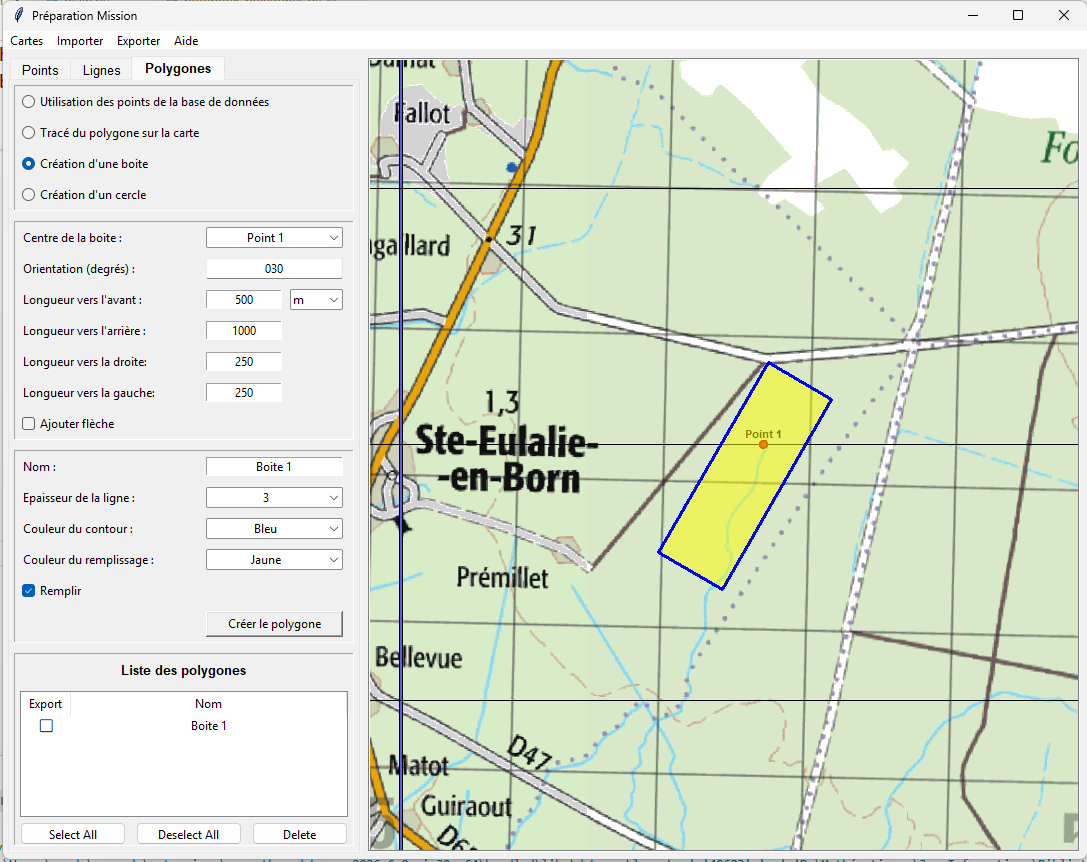
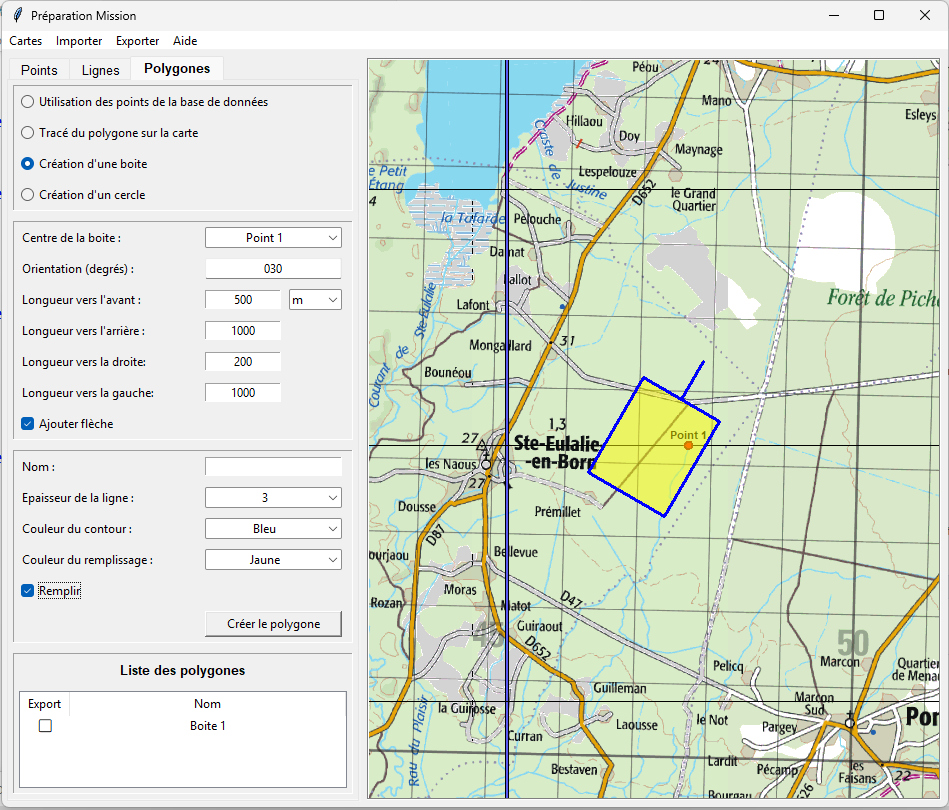
Mise a jour

diff --git a/aide.html b/aide.html
@@ -386,9 +386,11 @@
       </div>
 
       <p>Le champ <strong>Longueur totale</strong> affiche la longueur totale de la ligne en mètres ou nautiques.</p>
-      <p>Le champ <strong>Longueur du dernier segment</strong> affiche la longueur du dernier segment ajouté en mètres ou
+      <p>Le champ <strong>Longueur du dernier segment</strong> affiche la longueur du dernier segment ajouté en mètres
+        ou
         nautiques.</p>
-      <p>Le champ <strong>Gisement du dernier segment</strong> affiche le gisement du dernier segment ajouté en degrés.</p>
+      <p>Le champ <strong>Gisement du dernier segment</strong> affiche le gisement du dernier segment ajouté en degrés.
+      </p>
 
       <h3>2.3 Liste des lignes</h3>
 
@@ -448,46 +450,63 @@
       <p>Le dernier point peut se positionner par rapport au point précédent en s'aidant des champs :</p>
 
       <ul>
-        <li><strong>Longueur du dernier segment</strong> : longueur du dernier segment ajouté en mètres ou nautiques.</li>
+        <li><strong>Longueur du dernier segment</strong> : longueur du dernier segment ajouté en mètres ou nautiques.
+        </li>
         <li><strong>Gisement du dernier segment</strong> : gisement du dernier segment ajouté en degrés.</li>
-      </ul>      
+      </ul>
 
       <div class="image-gallery1">
         <img src="Images\Onglet_Polygones_2.jpg" alt="Onglet Polygones">
       </div>
 
 
-      <h3>3.3  Création d'un polygone : "Création d'une boite"</h3>
-      
+      <h3>3.3 Création d'un polygone : "Création d'une boite"</h3>
+
       <ul>
         <li><strong>Centre de la boite </strong> :Choisir dans la liste des points l'origine de la boite.</li>²
         <li><strong>Orientation </strong> :Choisir l'orientation de la boite en degrés.</li>
-        <li><strong>Longueur vers l'avant </strong> :Extension de la boite dans le sens de l'orientation en mètres ou nautiques.</li>
+        <li><strong>Longueur vers l'avant </strong> :Extension de la boite dans le sens de l'orientation en mètres ou
+          nautiques.</li>
         <li><strong>Longueur vers l'arrière </strong> :Extension de la boite dans le sens opposé à l'orientation.</li>
-        <li><strong>Longueur vers la gauche </strong> :Extension de la boite à gauche perpendiculairement à l'orientation.</li>
-        <li><strong>Longueur vers la droite </strong> :Extension de la boite à droite perpendiculairement à l'orientation.</li>
+        <li><strong>Longueur vers la gauche </strong> :Extension de la boite à gauche perpendiculairement à
+          l'orientation.</li>
+        <li><strong>Longueur vers la droite </strong> :Extension de la boite à droite perpendiculairement à
+          l'orientation.</li>
       </ul>
 
-      <p>La case à cocher <strong>Ajouter une flèche </strong> permet d'ajouter une flèche indiquant graphiquement la direction de la boite (Stationnaires).</p>
+      <p>La case à cocher <strong>Ajouter une flèche </strong> permet d'ajouter une flèche indiquant graphiquement la
+        direction de la boite (Stationnaires).</p>
 
       <div class="image-gallery1">
         <img src="Images\Onglet_Polygones_3.jpg" alt="Onglet Polygones">
       </div>
 
       <h3>3.4 Création d'un cercle</h3>
+
+      <p>Permet de créer un cercle ou un arc de cercle :</p>
+
       <ul>
         <li>Choisir dans la liste des points le centre du cercle.</li>
         <li>Sélectionner un rayon en mètres ou nautiques.</li>
-        <li>Sélectionner le nombre de segments pour tracer le cercle.</li>
-        <li>La case à cocher <strong>Arc de cercle</strong> permet de créer un arc de cercle au lieu d'un cercle
-          complet.</li>
-        <li>Choisir l'angle de départ.</li>
-        <li>Choisir l'angle d'arrivée.</li>
-        <li>La case à cocher <strong>Relier au centre</strong> permet de tracer l'arc de cercle en reliant les
-          extrémités au centre.</li>
+        <li>Sélectionner le nombre de segments pour tracer le polygone.</li>
       </ul>
 
+      <div class="image-gallery1">
+        <img src="Images\Onglet_Polygones_4.jpg" alt="Onglet Polygones">
+      </div>
 
+      <p>La case à cocher <strong>Arc de cercle</strong> ouvre la boite de saisies pour generer un arc de cercle :</p>
+      <ul>
+        <li><strong>Angle de départ </strong> :Entrer l'angle de départ entre 0 et 360°.</li>
+        <li><strong>Angle d'arrivée </strong> :Entrer l'angle d'arrivée entre 0 et 360°.</li>
+        <li>L'arc part de l'angle de départ et rejoint l'angle d'arrivée dans le sens horaire.</li>
+        <li>La case à cocher <strong>Relier au centre</strong> permet de relier l'arc au centre (Arc jaune).</li>
+        <li> Si la case n'est pas cochée, une branche relie les deux extrémités de l'arc (Arc vert)</li>
+      </ul>
+      
+      <div class="image-gallery1">
+        <img src="Images\Onglet_Polygones_5.jpg" alt="Onglet Polygones">
+      </div>
 
       <h3>Gestion des polygones</h3>
       <ul>

diff --git a/database.py b/database.py
@@ -5,6 +5,87 @@ import tkinter as tk
 import utility
 
 
+def _has_coordinate_value(value):
+    """Vérifie qu'une coordonnée n'est ni vide ni absente, y compris si elle vaut 0."""
+    if value is None:
+        return False
+    if isinstance(value, str):
+        return value.strip() != ""
+    return True
+
+
+def _calculate_hippodrome_points(center_lat, center_lon, length_forward, length_backward, length_right, length_left, orientation):
+    """Calculer les points d'un hippodrome à partir des dimensions du rectangle."""
+    if length_right <= 0 and length_left <= 0:
+        return []
+
+    radius_km = (length_right + length_left) / 2.0
+    if radius_km <= 0:
+        return []
+
+    center_point = {"lat": center_lat, "lon": center_lon}
+    transverse_offset_km = (length_right - length_left) / 2.0
+
+    def offset_point(point_data, distance_km, bearing_deg):
+        if distance_km == 0:
+            return point_data["lat"], point_data["lon"]
+        return utility.create_point_from_bearing_distance(
+            point_data,
+            abs(distance_km),
+            bearing_deg if distance_km <= 0 else (bearing_deg + 180) % 360,
+        )
+    
+    def build_arc_points(center_point_data, start_bearing, end_bearing, clockwise, num_points=20):
+        points = []
+        if clockwise:
+            span = (start_bearing - end_bearing) % 360
+            for index in range(num_points):
+                bearing = (start_bearing - (span / (num_points - 1)) * index) % 360
+                lat, lon = utility.create_point_from_bearing_distance(center_point_data, radius_km, bearing)
+                points.append((lon, lat))
+        else:
+            span = (end_bearing - start_bearing) % 360
+            for index in range(num_points):
+                bearing = (start_bearing + (span / (num_points - 1)) * index) % 360
+                lat, lon = utility.create_point_from_bearing_distance(center_point_data, radius_km, bearing)
+                points.append((lon, lat))
+        return points
+    
+    front_center_lat, front_center_lon = utility.create_point_from_bearing_distance(center_point, length_forward, orientation)
+    back_center_lat, back_center_lon = utility.create_point_from_bearing_distance(center_point, length_backward, (orientation + 180) % 360)
+
+    lateral_bearing = (orientation + 90) % 360
+    if transverse_offset_km < 0:
+        lateral_bearing = (orientation - 90) % 360
+
+    front_center_lat, front_center_lon = offset_point(
+        {"lat": front_center_lat, "lon": front_center_lon},
+        transverse_offset_km,
+        lateral_bearing,
+    )
+    back_center_lat, back_center_lon = offset_point(
+        {"lat": back_center_lat, "lon": back_center_lon},
+        transverse_offset_km,
+        lateral_bearing,
+    )
+
+    front_center = {"lat": front_center_lat, "lon": front_center_lon}
+    back_center = {"lat": back_center_lat, "lon": back_center_lon}
+
+    front_arc_points = build_arc_points(front_center, (orientation + 90) % 360, (orientation - 90) % 360, clockwise=True)
+    back_arc_points = list(reversed(build_arc_points(back_center, (orientation + 90) % 360, (orientation - 90) % 360, clockwise=False)))
+
+    if not front_arc_points or not back_arc_points:
+        return []
+
+    points = list(front_arc_points)
+    #points.append(back_arc_points[0])
+    # points.extend(back_arc_points[1:])
+    # points.append(front_arc_points[0])
+    points.extend(back_arc_points)
+    return points
+
+
 def point_add(name, lat, lon, alt, scale, icon, color, hotspot_x, hotspot_y, label_color):
     """Ajouter un point à la base de données"""
 
@@ -214,10 +295,34 @@ def polygon_coordinates_rectangle_get(viewer):
     # Convertir au format attendu pour la base de données
     for lon, lat in rectangle_points:
         coordinates_list.append(f"{lon},{lat},0")
+
+    # Vérifier si l'utilisateur souhaite ajouter un hippodrome
+    pattern_var = getattr(viewer, "pattern_rectangle_var", None)
+    add_pattern = bool(pattern_var.get()) if pattern_var is not None else False
+
+    if add_pattern:
+        hippodrome_points = _calculate_hippodrome_points(
+            center_lat,
+            center_lon,
+            length_forward,
+            length_backward,
+            length_right,
+            length_left,
+            orientation,
+        )
+        if hippodrome_points:
+            coordinates_list =[]
+            for lon, lat in hippodrome_points:
+                coordinates_list.append(f"{lon},{lat},0")
+            return coordinates_list
+
+   
+
+
     
-    # Ajouter la flèche d'orientation si demandée
+    # # Ajouter la flèche d'orientation si demandée et si hyppodrome non coché
     add_arrow = viewer.rectangle_add_arrow_var.get()
-    if add_arrow:
+    if add_arrow and not add_pattern:
         arrow_points = utility.calculate_arrow_points(center_lat, center_lon, length_forward, length_backward, length_right, length_left, orientation)
         # Ajouter les points de la flèche après le rectangle
         for lon, lat in arrow_points:
@@ -612,7 +717,7 @@ def create_point(viewer):
         messagebox.showerror("Erreur", "Le nom du point est obligatoire")
         return
 
-    if not lat_text or not lon_text:
+    if not _has_coordinate_value(lat_text) or not _has_coordinate_value(lon_text):
         messagebox.showerror("Erreur", "Les coordonnées sont obligatoires")
         return    
 
@@ -692,7 +797,7 @@ def coord_point_from_click(viewer):
     lat_text = viewer.click_lat_entry.get()
     lon_text = viewer.click_lon_entry.get()
     
-    if not lat_text or not lon_text:
+    if not _has_coordinate_value(lat_text) or not _has_coordinate_value(lon_text):
         messagebox.showerror("Erreur", "Cliquez d'abord sur la carte pour sélectionner les coordonnées")
         return
         
@@ -714,7 +819,7 @@ def coord_point_from_deg(viewer):
     lat_text = viewer.lat_entry.get().strip()
     lon_text = viewer.lon_entry.get().strip()  
 
-    if not lat_text or not lon_text:
+    if not _has_coordinate_value(lat_text) or not _has_coordinate_value(lon_text):
         messagebox.showerror("Erreur", "Les coordonnées sont obligatoires")
         return
 

diff --git a/tests/test_database_coordinates.py b/tests/test_database_coordinates.py
@@ -1,0 +1,17 @@
+import unittest
+
+from database import _has_coordinate_value
+
+
+class DatabaseCoordinateValueTests(unittest.TestCase):
+    def test_zero_is_allowed_as_coordinate(self):
+        self.assertTrue(_has_coordinate_value(0))
+        self.assertTrue(_has_coordinate_value(0.0))
+
+    def test_empty_string_is_rejected(self):
+        self.assertFalse(_has_coordinate_value(""))
+        self.assertFalse(_has_coordinate_value(None))
+
+
+if __name__ == "__main__":
+    unittest.main()

diff --git a/notebook_polygones.py b/notebook_polygones.py
@@ -156,6 +156,17 @@ def fill_rectangle_frame(viewer):
     viewer.rectangle_add_arrow_radio = ttk.Checkbutton(viewer.polygone_utility_frame, text="Ajouter flèche", variable=viewer.rectangle_add_arrow_var)
     viewer.rectangle_add_arrow_radio.grid(row=7, column=0, columnspan=2, sticky=tk.W, padx=5, pady=5)
 
+     # Transformation du rectangle en hippodrome
+    viewer.pattern_rectangle_var = tk.IntVar()
+    viewer.rectangle_add_pattern_check = ttk.Checkbutton(
+        viewer.polygone_utility_frame,
+        text="Tracer un hippodrome",
+        variable=viewer.pattern_rectangle_var,
+    )
+    viewer.rectangle_add_pattern_check.grid(row=8, column=0, columnspan=2, sticky=tk.W, padx=5, pady=5)
+    utility.ToolTip(viewer.rectangle_add_pattern_check, text="Complete la boite sous forme d'hippodrome.\n" )
+
+
 def fill_cercles_frame(viewer):
     
     # polygone_utility_frame : Configurer la colonne 1 pour qu'elle s'étende

diff --git a/main.py b/main.py
@@ -11,7 +11,7 @@ import notebook_lines
 import notebook_polygones
 import import_export_manager
 
-# Ligne de commande compilation : pyinstaller --noconsole --add-data "aide.html;." main.py
+# Ligne de commande compilation : pyinstaller --noconsole --add-data "aide.html;." --add-data "Images;Images" main.py
 
 class MBTilesViewer:
     